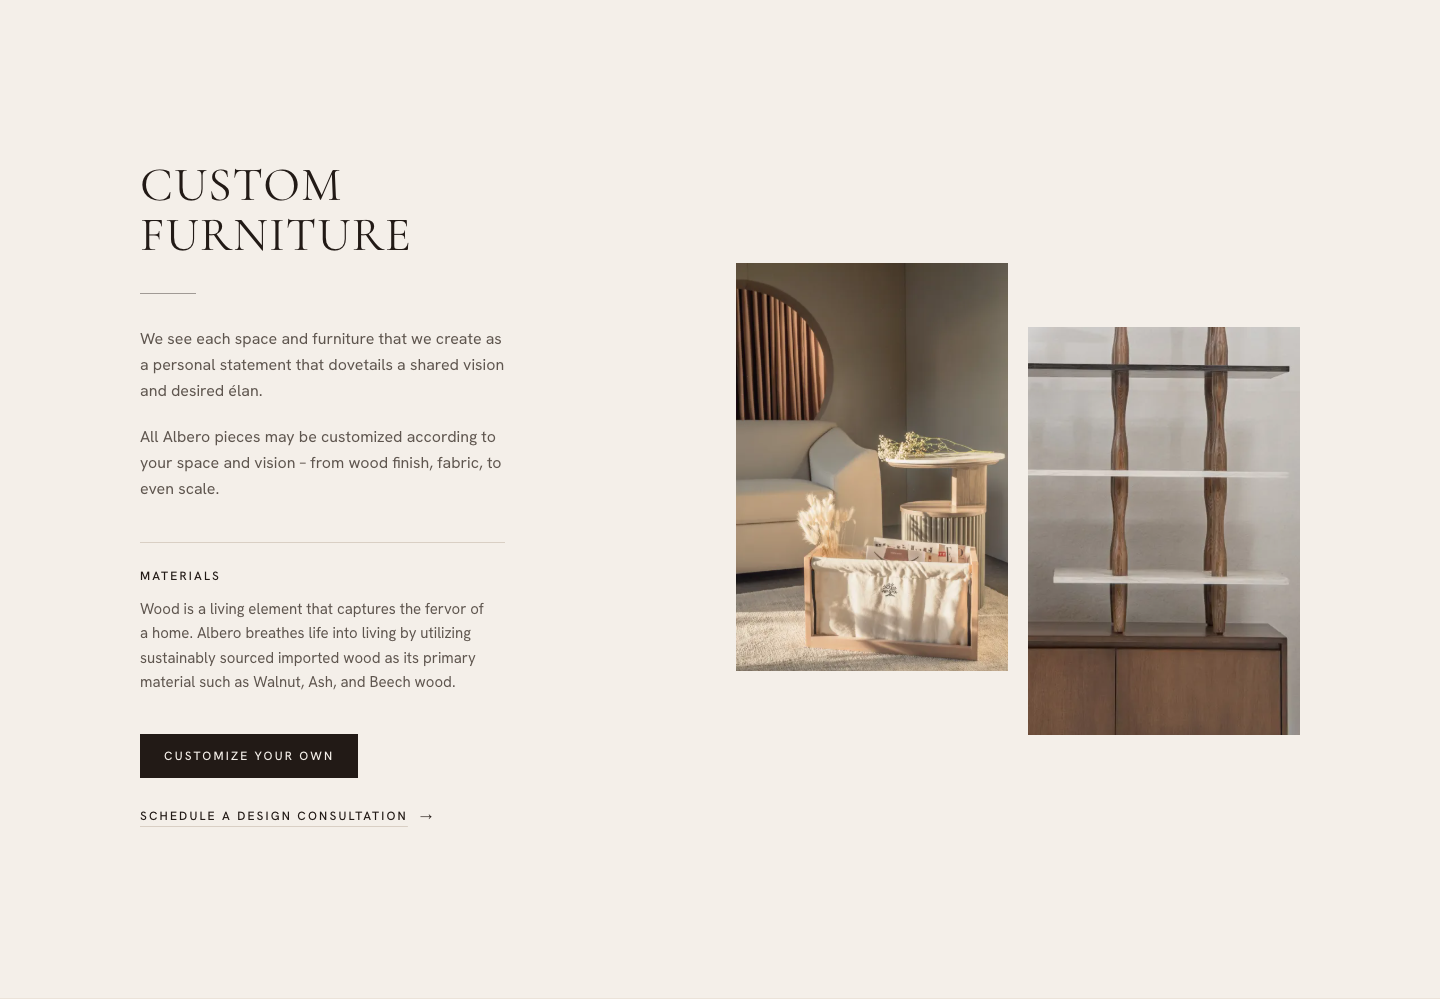
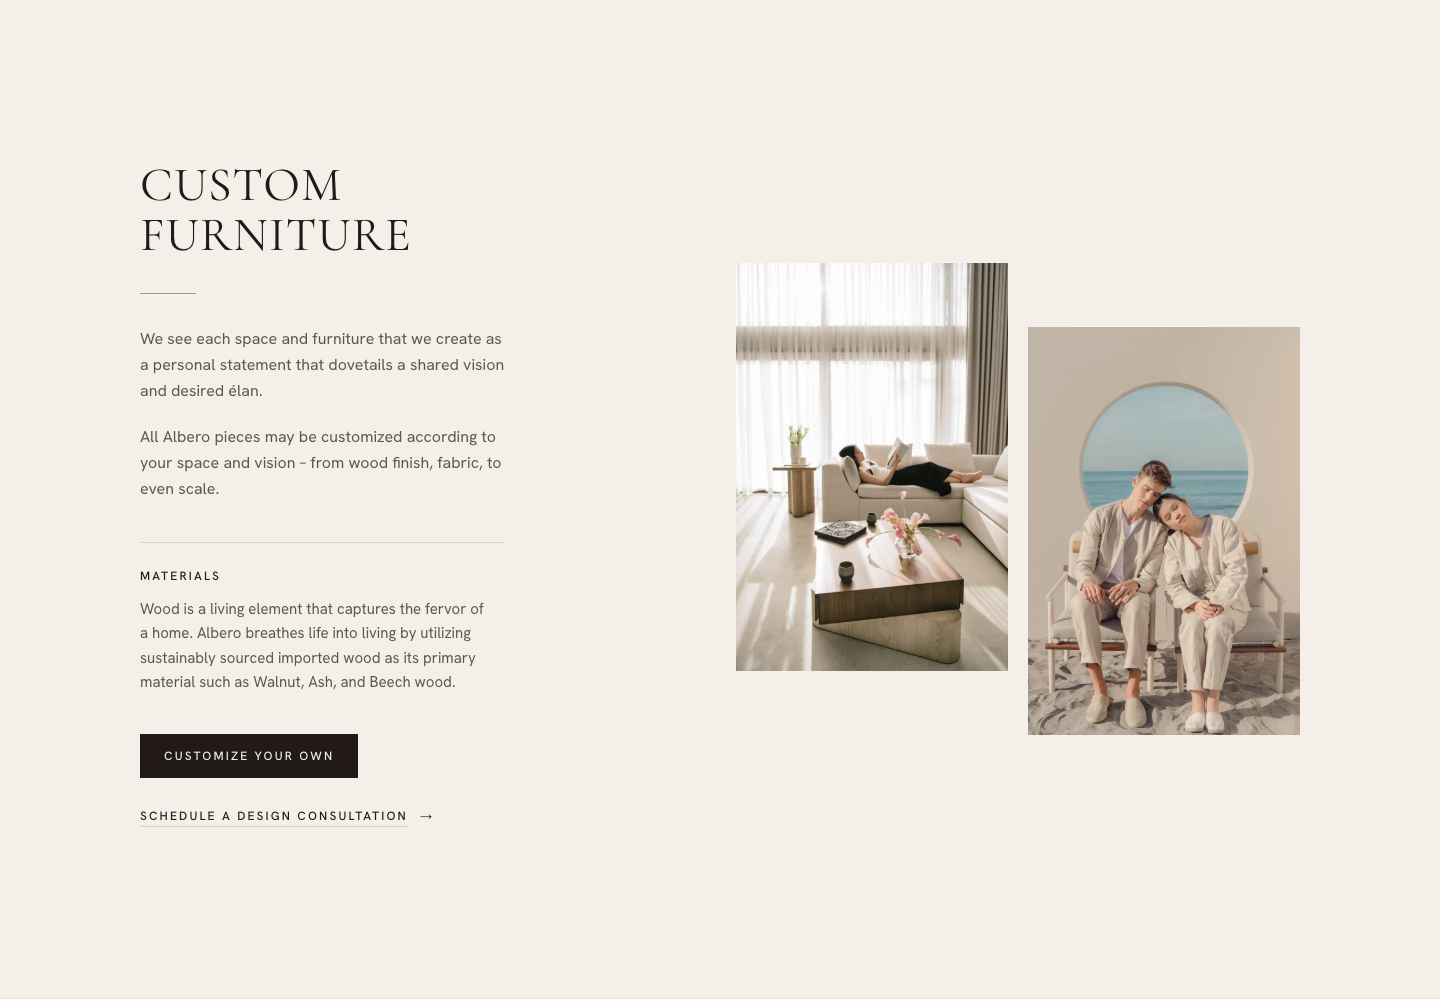
Homepage: hero scroll scrub, real assets, remaining audit/critique fixes
Hero scroll (CLAUDE.md Step C)
- Sticky canvas scrubs public/hero/frames by scroll progress (rAF + lerp,
  cover-fit, first frame immediately, rest after load, desktop/mobile set
  by width). The sharp photo stays the LCP poster; frames take over once
  scrolling starts (frame 1 aligns with it to a few px).
- Headline visible to 30%, gone by 40%; Cere block in from 60%, full by
  75%; opacity + 12px drift only. Tabbing onto the hidden CTA scrolls it
  into view.
- No JS or prefers-reduced-motion: 100svh static stage, both overlays,
  no frames requested.
- While scrubbing the overlays never share the screen, so the Cere scrim
  gets its long 10rem fade back (no hard band edge).

Assets
- Download the 42 images the crawl had missed (all from albero.ph, each
  verified as JPEG/PNG): Custom now uses its own gallery pair from
  SHAPE.md; Origin card uses the page's own hero.
- Albero's real wordmark (from the albero.ph header) in header and footer.
- Cere card: Clo Sofa instead of the hero room from another angle.

Fixes
- Mobile menu closes when focus tabs out of it.
- scroll-padding-bottom below md so focus never lands under the fixed
  Book Your Visit bar.
- Build: prune unreferenced images from dist/_astro (71 MB -> 6.9 MB).

Changed region(s): [[0.5, 0.2482, 0.9062, 0.7447]]

diff --git a/src/components/lib/content.ts b/src/components/lib/content.ts
@@ -181,8 +181,9 @@ const yearLabel = (p: Page) => heading(p, /^\d{4} Collection$/);
 const covers: Record<string, { page: Page; meta?: string | null; image: string; alt: string }> = {
   '/cere-collection': {
     page: pages.cere,
-    image: '/images/home/ABR_2282.jpg',
-    alt: 'Dark wood coffee table with a pale stone top in front of a tan sofa and a cushioned lounge chair',
+    // Not ABR_2282: that's the hero's room from another angle (critique: Cere repeated before the index).
+    image: '/images/cere-collection/Clo-Sofa-2.jpg',
+    alt: 'Clo Sofa: tan upholstered sofa on black lacquer side panels, with brown and cream cushions',
   },
   '/2ndhaus-collection': {
     page: pages.secondHaus,
@@ -207,9 +208,8 @@ const covers: Record<string, { page: Page; meta?: string | null; image: string; 
   },
   '/origin-collection': {
     page: pages.origin,
-    // The page's own hero (ORIGIN-52-6138-EDIT.jpg) is missing on disk.
-    image: '/images/origin-collection/Lotus-Bed.jpg',
-    alt: 'Low upholstered bed on rounded wood legs in a pale bedroom with open shelving',
+    image: '/images/origin-collection/ORIGIN-52-6138-EDIT.jpg',
+    alt: 'A stacked burl wood side table, a pale wood sideboard and an upholstered chair outdoors beneath a timber gable frame hung with flowers',
   },
   '/close-collection': {
     page: pages.close,

diff --git a/src/styles/global.css b/src/styles/global.css
@@ -18,6 +18,8 @@
 
 :root {
   --header-h: 60px;
+  /* Strong ease-out for UI entrances (animate skill table). */
+  --ease-out: cubic-bezier(0.23, 1, 0.32, 1);
 }
 
 @media (min-width: 768px) {
@@ -29,6 +31,12 @@
 @layer base {
   html {
     scroll-padding-top: var(--header-h);
+    /* Below md the fixed Book Your Visit bar (56px) covers the bottom of the viewport. */
+    scroll-padding-bottom: 4.5rem;
+
+    @media (min-width: 768px) {
+      scroll-padding-bottom: 0;
+    }
   }
 
   body {
